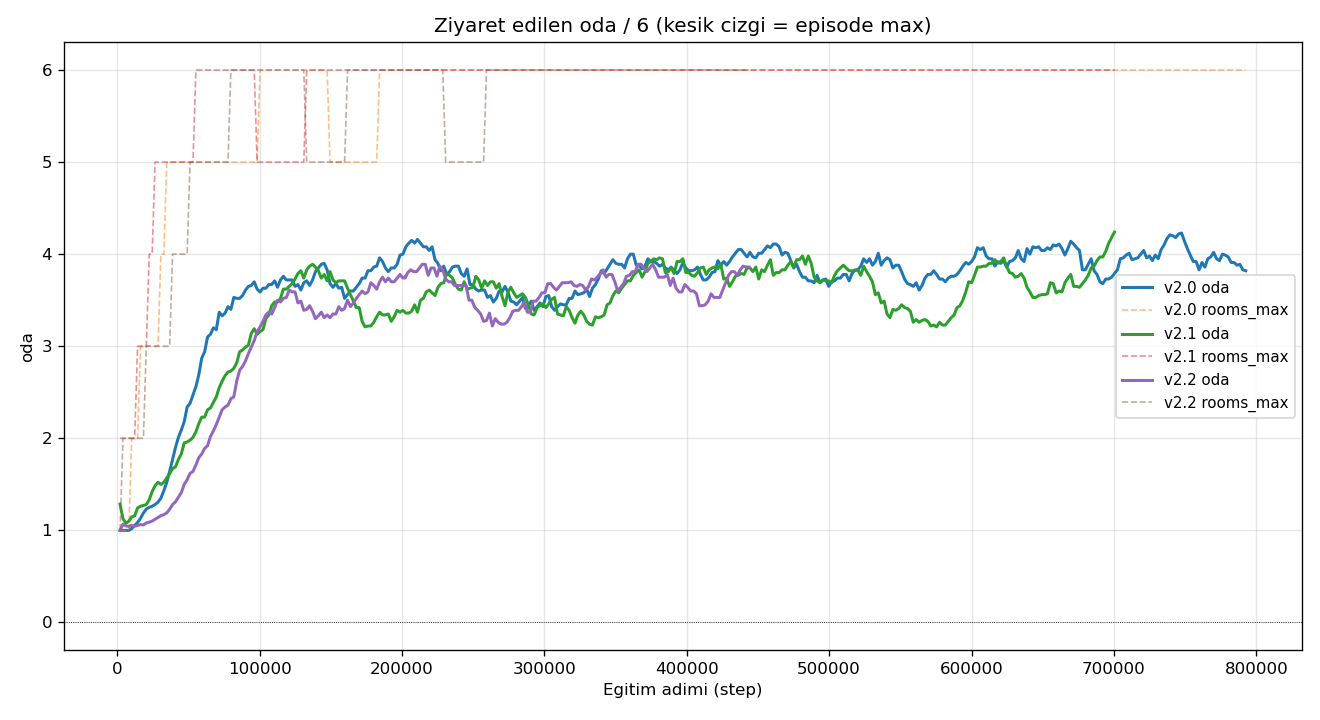
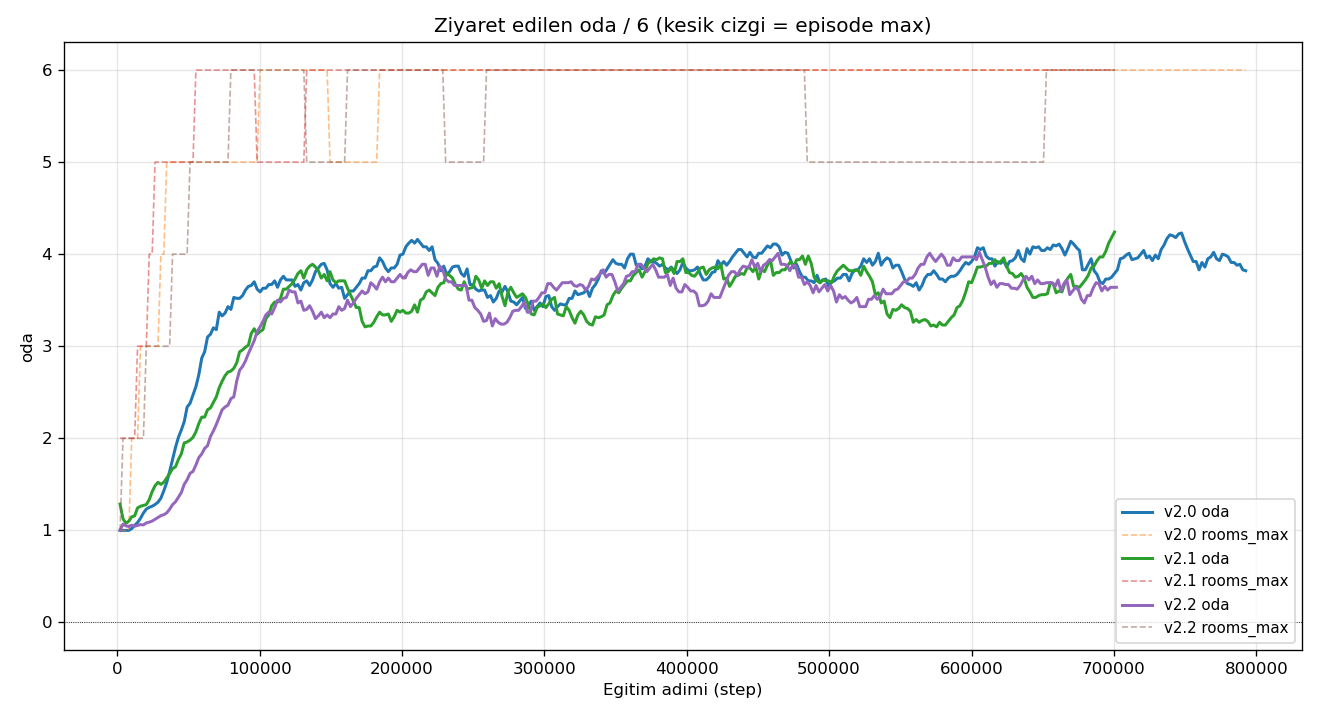
ÜÇLÜ EVAL: v2.0 KAZANDI (%70/%36) > v2.1 (%79/%32) > v2.2 (%88/%29) -> v3.0 = v2.0 odul + 1.5M
- v2.2 100-ep eval: carpisma %88, kapsama %29 (en kotu). Ceza-sekillendirme (v2.1/v2.2) elendi.
- v3.0 = v2.0 sade odul (kanitlanmis en iyi) + iyilestirmeler: episode 1500->2500, net [128]->256,
  ent 0.005->0.008, lr 3e-4->1e-5 fresh. FRESH 1.5M (runs/ppo_v3_best). HEDEF: maksimum voxel.
- docs/EVAL_v2_2.md + eval_v2_2_*.png + REPORT.md (uclu kiyas) Berker icin kaydedildi.

diff --git a/ros2_ws/src/rl_drone_pathfinding/rl_drone_pathfinding/envs/drone_exploration_env.py b/ros2_ws/src/rl_drone_pathfinding/rl_drone_pathfinding/envs/drone_exploration_env.py
@@ -311,7 +311,7 @@ class DroneExplorationEnv(gym.Env):
         if new_room:
             self._visited_rooms.add(groom)
 
-        # ----- ODUL (v2.1: yon-duyarli ceza) -----
+        # ----- ODUL (v3.0 = v2.0 sade ceza; eval'de en iyi) -----
         reward = -0.01                                   # zaman
 
         if new_voxel:
@@ -325,28 +325,16 @@ class DroneExplorationEnv(gym.Env):
         if new_room:
             reward += 10.0                               # oda kilometre tasi
 
-        # v2.2 HER-YON caution (v2.0'dan geri): yanlardan/caprazdan (ozellikle hareketli
-        # engel) yaklasmayi da cezalandir. v2.1 eval'i directional-only'nin carpismayi
-        # DUSURMEDIGINI (%70->%79) gosterdi -> her-yon caution koruyucu.
+        # v3.0 = v2.0 ODULU (uclu 100-ep eval'de KANITLANMIS EN IYI: %70 carpisma / %36 kapsama).
+        # v2.1 (yon-duyarli) ve v2.2 (birlesik caution) ceza-sekillendirmeleri ELENDI
+        # (carpismayi %79/%88'e cikarip kapsamayi dusurdu). Sade her-yon yaklasma cezasi:
         if scan_min < OMNI_PENALTY_DIST:
             reward -= 0.5 * (OMNI_PENALTY_DIST - scan_min) / OMNI_PENALTY_DIST
 
-        # v2.1 YON-DUYARLI ek ceza: GIDILEN yondeki (ileri-ark) engel yakinsa ekstra cezalandir
-        # (duvara/engele daliyor). Bu, her-yon cezasinin USTUNE binen ileri-odakli caution.
-        lo = max(0, FORWARD_BIN - FWD_ARC_HALF)
-        hi = min(LIDAR_BINS, FORWARD_BIN + FWD_ARC_HALF + 1)
-        fwd_clear = float(lidar_obs[lo:hi].min()) * LIDAR_MAX
-        if fwd_clear < FWD_PENALTY_DIST:
-            reward -= 0.6 * (FWD_PENALTY_DIST - fwd_clear) / FWD_PENALTY_DIST
-
-        # Siyirma cezasi: her yonde COK yakin -> ekstra kucuk ceza
-        if scan_min < SCRAPE_DIST:
-            reward -= 0.3 * (SCRAPE_DIST - scan_min) / SCRAPE_DIST
-
-        # Ileri-acik bonus: on acikken ileri gitmeyi odullendir (acikliklardan gec)
+        # Ileri-acik bonus (v2.0: 0.05): on lidar acikken ileri gitmeyi hafifce odullendir
         forward_open = float(lidar_obs[FORWARD_BIN])
         forward_act  = float(np.clip(a[0], 0.0, 1.0))
-        reward += FWD_OPEN_BONUS * forward_open * forward_act
+        reward += 0.05 * forward_open * forward_act
 
         # Carpisma -> terminal (her yon, fiziksel temas)
         terminated = False

diff --git a/docs/REPORT.md b/docs/REPORT.md
@@ -8,7 +8,7 @@ Otomatik uretildi (`scripts/report.py`). Operator agent gunceller.
 |---|---|---|---|---|---|
 | v2.0 | 792,576 | +102.8 | +121.6 | 232/1024 | 6/6 |
 | v2.1 | 700,416 | +144.2 | +144.2 | 268/1024 | 6/6 |
-| v2.2 | 443,712 | +91.6 | +94.2 | 202/1024 | 6/6 |
+| v2.2 | 701,760 | +87.1 | +105.3 | 222/1024 | 6/6 |
 
 ## Versiyon / Mudahale Gunlugu
 
@@ -21,6 +21,8 @@ Otomatik uretildi (`scripts/report.py`). Operator agent gunceller.
 | 2026-05-31 16:40 | v2.2 | version_bump | v2.1 dersine gore TEK-tema: v2.0 her-yon cezasi (scan_min<1.0m, -0.5) GERI getirildi + v2.1 ileri-ark cezasi (fwd<1.5m,-0.6) KORUNDU = birlesik caution. FRESH 500k, episode 1500, runs/ppo_v2_2. Hedef: v2.0 %70 carpisma / %36 kapsamasini gecmek. |
 | 2026-05-31 18:00 | v2.2 | extend | v2.2 hedef 500k->700k (Berker onayi). 500k bitince operator final.zip ten resume. 700k eval sonrasi mantikliysa v2.3 (gozleme lidar gecmisi = hareketli engel hizi). |
 | 2026-05-31 19:35 | PLAN | directive | Berker direktifi: 700k bitince v2.2 eval + v2.0/v2.1/v2.2 KIYAS kaydet -> en iyi reward+hiperparametre tabanini sec + mantikli iyilestirmeleri (env reward/policy + ppo.yaml) uygula -> en iyi surumle UZUN episode (2000-3000) + 1.5M step egit. HEDEF: maksimum voxel. Bu 1.5M karari supervisor(ben) tarafindan eval verisiyle verilecek. |
+| 2026-05-31 21:40 | v2.2 | eval_result | v2.2 100-ep eval (700k): carpisma %88 (v2.0 %70, v2.1 %79 -> EN KOTU), birlesik kapsama 297/1024 %29 (v2.0 %36), voxels_mean 66, voxels_max 168, rooms_mean 3.77. SONUC: ceza-sekillendirme (v2.1 yon-duyarli, v2.2 birlesik) carpismayi DUSURMEDI, kotulestirdi. v2.0 sade odul EN IYI. |
+| 2026-05-31 21:42 | v3.0 | version_bump | Berker direktifi: en iyi taban+iyilestirme+1.5M. EVAL KIYAS: v2.0 %70/%36 (KAZANAN) > v2.1 %79/%32 > v2.2 %88/%29. KARAR: v2.0 odulune GERI DON + iyilestir: max_episode_steps 1500->2500 (uzun), net_arch [128]->256, ent 0.005->0.008, lr 3e-4->1e-5 fresh. FRESH 1.5M, runs/ppo_v3_best. Ceza-sekillendirme yolu elendi; carpisma kalan darbogaz (hareketli engel -> ileride lidar gecmisi adayi). |
 
 ## Figurler
 

diff --git a/docs/PROGRESS.md b/docs/PROGRESS.md
@@ -579,3 +579,14 @@ TANI: darbogaz CARPISMA. Eski duvar cezasi YONSUZ (scan_min<1.0m) -> 2m kapida y
   * ppo.yaml: net_arch [256,256], uzun episode (max_episode_steps 2000-3000), lr schedule 1.5M, ent ayari.
 - En iyi+iyilestirilmis surumle FRESH 1.5M step egitim (runs/ppo_v3_best veya benzeri). Uzun episode -> daha cok voxel.
 - Karar supervisor(Opus) tarafindan eval sonrasi verilecek (sonnet operator degil).
+
+## 2026-05-31 ~21:42 — ÜÇLÜ EVAL KIYAS + v3.0 (en iyi + 1.5M)
+| metrik | v2.0 | v2.1 | v2.2 |
+|---|---|---|---|
+| Carpisma % | **70** | 79 | 88 |
+| Birlesik kapsama | **36%** | 32% | 29% |
+| voxels_mean | **80** | 69 | 66 |
+| voxels_max | **201** | 195 | 168 |
+SONUC: v2.0 sade odul KAZANDI; ceza-sekillendirme (v2.1/v2.2) carpismayi dusurmedi -> elendi.
+v3.0 = v2.0 odulu + uzun episode (2500) + net [256,256] + ent 0.008 + lr 3e-4->1e-5, FRESH 1.5M
+(runs/ppo_v3_best). Hedef: maksimum voxel (uzun episode = daha cok gezme).

diff --git a/docs/EVAL_v2_2.md b/docs/EVAL_v2_2.md
@@ -1,0 +1,23 @@
+# v2.0 Performans Degerlendirmesi — 100 episode
+
+Model: `ppo_drone_final.zip` | deterministic=True | hareketli engeller: aktif
+
+## Istatistikler
+
+| Metrik | Deger |
+|---|---|
+| Return (odul) | 79.7 ± 67.1  (min -13, max 201) |
+| Kesfedilen voxel / 1024 | 65.9 ± 53.8  (min 1, max 168) |
+| Ziyaret edilen oda / 6 | 3.8 ± 1.9  (min 1, max 6) |
+| Episode uzunlugu / 1500 | 467.1 ± 487.3  (min 1, max 1500) |
+| Carpisma orani | 88% (88/100) |
+| Birlesik benzersiz hucre kapsama | 297/1024 (29%) |
+
+## Yorum
+- Episode'larin %88'i CARPISMA ile bitti (ort. 467/1500 adim). Carpismasa daha cok gezecek.
+- 6 odanin ortalama 3.8'ine ulasiliyor (max 6).
+- 100 episode birlesince haritanin %29'i en az bir kez geziliyor.
+
+![coverage](figures/eval_v2_2_coverage.png)
+
+![trajectories](figures/eval_v2_2_trajectories.png)
